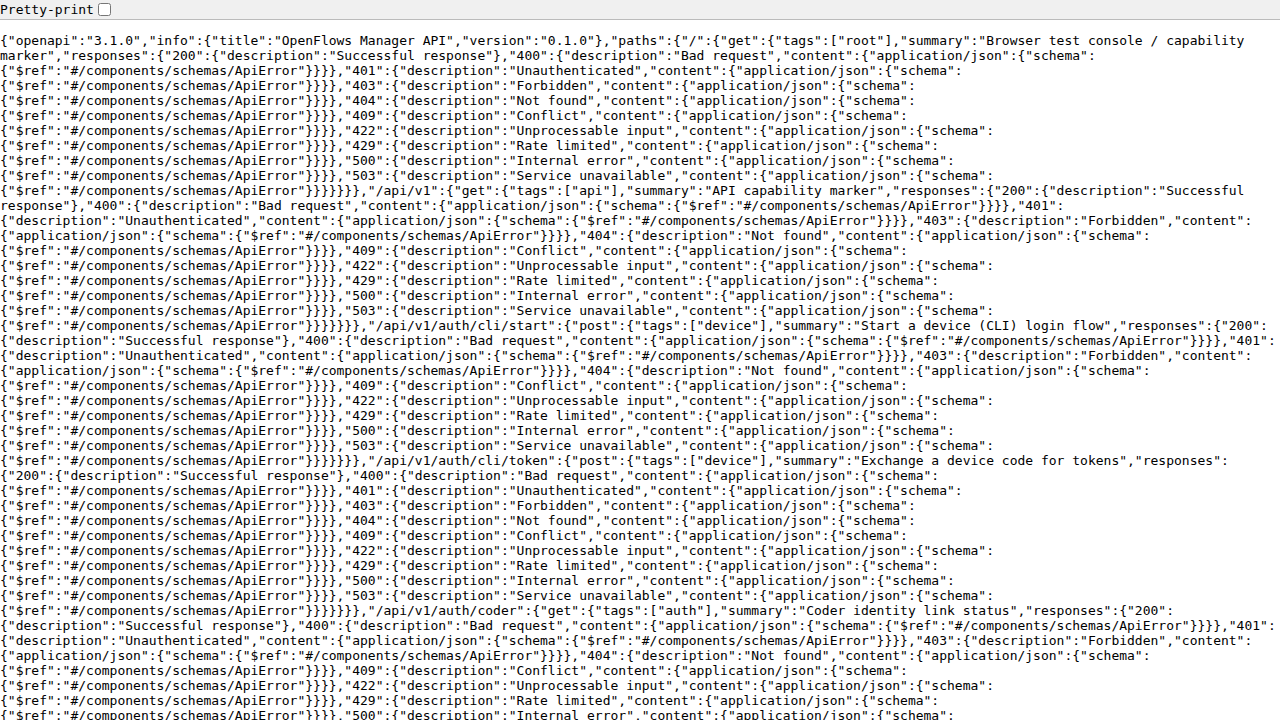
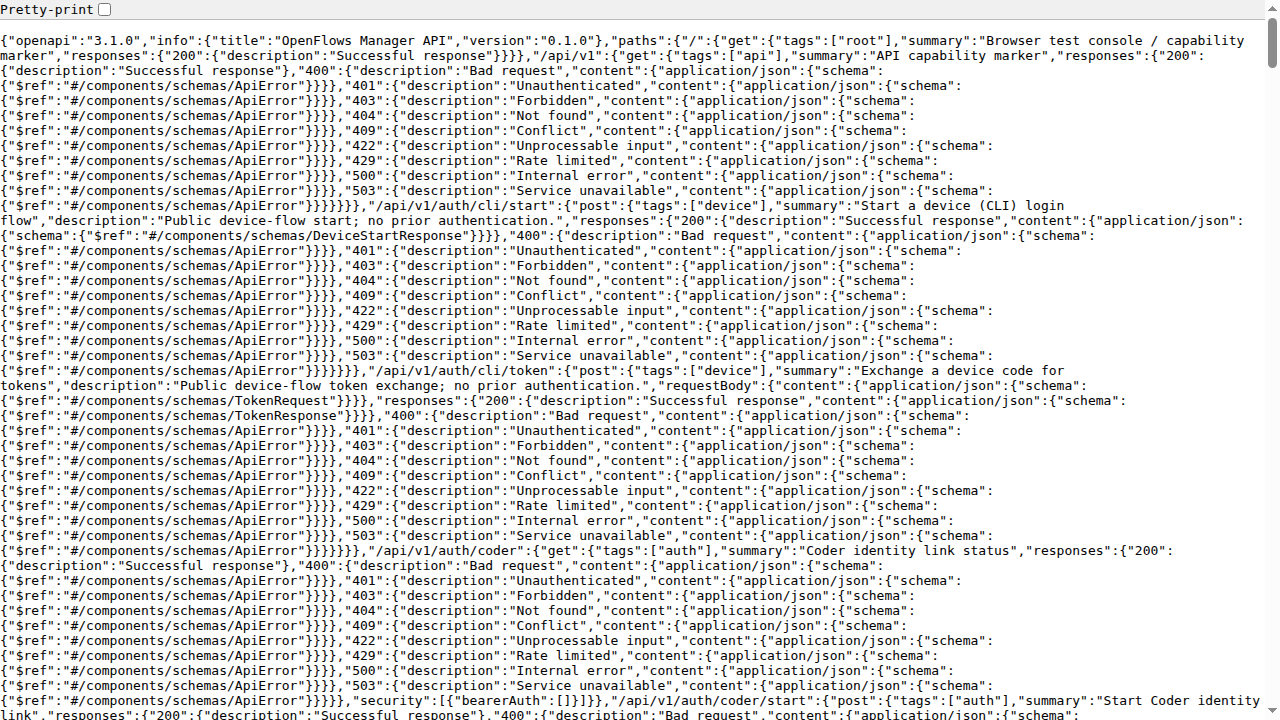
fix(api): align OpenAPI models with serialized responses and request schemas
- Fix Manager operation response schemas:
  - Return OperationResponse for async operations (create/delete org,
    reconcile, disconnect)
  - Return TenantOperationResponse for tenant mutations (create, delete,
    start, stop, clean)
  - Model UserOrganization for organization list items
  - Model OrgMember for membership list items
  - Model TenantStatus with workspace breakdown and latest operation
- Fix CreateTenantRequest to declare optional fleet parameter (default 1)
- Fix CleanTenantRequest to make reset_all optional (default false)
- Fix Agent Nexus HookPayload to require meta (HookMeta) and accept
  arbitrary JSON for data
- Update rendered Swagger UI and raw OpenAPI verification screenshots

diff --git a/crates/openflows-manager/src/openapi.rs b/crates/openflows-manager/src/openapi.rs
@@ -173,17 +173,36 @@ fn response_schema(path: &str, method: &str) -> Option<&'static str> {
     match (method, path) {
         ("GET", "/api/v1/me") => Some("User"),
         ("GET", "/api/v1/organizations") => Some("OrganizationList"),
-        ("POST", "/api/v1/organizations") => Some("Operation"),
+        ("POST", "/api/v1/organizations") => Some("OperationResponse"),
         ("GET", "/api/v1/organizations/{org}") => Some("Organization"),
         ("PATCH", "/api/v1/organizations/{org}") => Some("Organization"),
-        ("DELETE", "/api/v1/organizations/{org}") => Some("Operation"),
+        ("DELETE", "/api/v1/organizations/{org}") => Some("OperationResponse"),
         ("GET", "/api/v1/organizations/{org}/members") => Some("MembershipList"),
         ("PATCH", "/api/v1/organizations/{org}/members/{user}") => Some("Membership"),
         ("GET", "/api/v1/operations/{id}") => Some("Operation"),
         ("GET", "/api/v1/organizations/{org}/tenants") => Some("TenantList"),
+        ("POST", "/api/v1/organizations/{org}/tenants") => Some("TenantOperationResponse"),
         ("GET", "/api/v1/organizations/{org}/tenants/{tenant}") => Some("Tenant"),
-        ("GET", "/api/v1/organizations/{org}/tenants/{tenant}/status") => Some("Tenant"),
+        ("DELETE", "/api/v1/organizations/{org}/tenants/{tenant}") => {
+            Some("TenantOperationResponse")
+        }
+        ("POST", "/api/v1/organizations/{org}/tenants/{tenant}/start") => {
+            Some("TenantOperationResponse")
+        }
+        ("POST", "/api/v1/organizations/{org}/tenants/{tenant}/stop") => {
+            Some("TenantOperationResponse")
+        }
+        ("POST", "/api/v1/organizations/{org}/tenants/{tenant}/clean") => {
+            Some("TenantOperationResponse")
+        }
+        ("GET", "/api/v1/organizations/{org}/tenants/{tenant}/status") => Some("TenantStatus"),
         ("GET", "/api/v1/organizations/{org}/github/connections") => Some("ConnectionsResponse"),
+        ("POST", "/api/v1/organizations/{org}/github/connections/{id}/reconcile") => {
+            Some("OperationResponse")
+        }
+        ("DELETE", "/api/v1/organizations/{org}/github/connections/{id}") => {
+            Some("OperationResponse")
+        }
         ("GET", "/api/v1/runtime/workspaces/{workspace}") => Some("WorkspaceStatus"),
         ("POST", "/api/v1/auth/refresh") => Some("RefreshResponse"),
         ("POST", "/api/v1/auth/cli/start") => Some("DeviceStartResponse"),
@@ -391,10 +410,19 @@ fn build_components() -> utoipa::openapi::schema::ComponentsBuilder {
         .schema("SendChatMessageRequest", send_chat_message_schema())
         .schema("CredentialRequest", credential_request_schema())
         // ---- Response bodies ----
+        .schema("OperationResponse", operation_response_schema())
+        .schema(
+            "TenantOperationResponse",
+            tenant_operation_response_schema(),
+        )
+        .schema("UserOrganization", user_organization_schema())
+        .schema("OrgMember", org_member_schema())
         .schema("Membership", membership_schema())
-        .schema("OrganizationList", list_schema("Organization"))
-        .schema("MembershipList", list_schema("Membership"))
+        .schema("OrganizationList", list_schema("UserOrganization"))
+        .schema("MembershipList", list_schema("OrgMember"))
         .schema("TenantList", list_schema("Tenant"))
+        .schema("TenantWorkspaceCount", tenant_workspace_count_schema())
+        .schema("TenantStatus", tenant_status_schema())
         .schema("ConnectionsResponse", connections_schema())
         .schema("WorkspaceStatus", workspace_status_schema())
         .schema("RefreshResponse", refresh_response_schema())
@@ -578,14 +606,24 @@ fn create_tenant_schema() -> ObjectBuilder {
             ObjectBuilder::new().schema_type(Type::Integer),
         )
         .property("name", ObjectBuilder::new().schema_type(Type::String))
+        .property(
+            "fleet",
+            ObjectBuilder::new()
+                .schema_type(Type::Integer)
+                .description(Some("Fleet size (worker slots). Defaults to 1.")),
+        )
         .required("name")
 }
 
 fn clean_tenant_schema() -> ObjectBuilder {
-    ObjectBuilder::new()
-        .schema_type(Type::Object)
-        .property("reset_all", ObjectBuilder::new().schema_type(Type::Boolean))
-        .required("reset_all")
+    ObjectBuilder::new().schema_type(Type::Object).property(
+        "reset_all",
+        ObjectBuilder::new()
+            .schema_type(Type::Boolean)
+            .description(Some(
+                "Reset all state including configuration. Defaults to false.",
+            )),
+    )
 }
 
 fn connect_schema() -> ObjectBuilder {
@@ -667,6 +705,108 @@ fn credential_request_schema() -> ObjectBuilder {
         .schema_type(Type::Object)
         .property("repository", ObjectBuilder::new().schema_type(Type::String))
         .required("repository")
+}
+
+fn operation_response_schema() -> ObjectBuilder {
+    let string = || ObjectBuilder::new().schema_type(Type::String);
+    ObjectBuilder::new()
+        .schema_type(Type::Object)
+        .description(Some(
+            "Durable operation reference returned for 202 async actions",
+        ))
+        .property("operation_id", string())
+        .property("resource_id", string())
+        .property("status", string())
+        .required("operation_id")
+        .required("resource_id")
+        .required("status")
+}
+
+fn tenant_operation_response_schema() -> ObjectBuilder {
+    let string = || ObjectBuilder::new().schema_type(Type::String);
+    ObjectBuilder::new()
+        .schema_type(Type::Object)
+        .description(Some(
+            "Durable operation reference returned for tenant mutations",
+        ))
+        .property("operation_id", string())
+        .property("tenant_id", string())
+        .property("status", string())
+        .required("operation_id")
+        .required("tenant_id")
+        .required("status")
+}
+
+fn user_organization_schema() -> ObjectBuilder {
+    let string = || ObjectBuilder::new().schema_type(Type::String);
+    ObjectBuilder::new()
+        .schema_type(Type::Object)
+        .description(Some(
+            "An organization as returned in the caller's membership list",
+        ))
+        .property("organization_id", string())
+        .property("slug", string())
+        .property("display_name", string())
+        .property("role", string())
+        .property("status", string())
+        .required("organization_id")
+        .required("slug")
+        .required("display_name")
+        .required("role")
+        .required("status")
+}
+
+fn org_member_schema() -> ObjectBuilder {
+    let string = || ObjectBuilder::new().schema_type(Type::String);
+    ObjectBuilder::new()
+        .schema_type(Type::Object)
+        .description(Some(
+            "An organization member as returned in the membership list",
+        ))
+        .property("user_id", string())
+        .property("display_name", string())
+        .property("role", string())
+        .property("status", string())
+        .required("user_id")
+        .required("display_name")
+        .required("role")
+        .required("status")
+}
+
+fn tenant_workspace_count_schema() -> ObjectBuilder {
+    let string = || ObjectBuilder::new().schema_type(Type::String);
+    ObjectBuilder::new()
+        .schema_type(Type::Object)
+        .description(Some("Workspace breakdown by observed state"))
+        .property("state", string())
+        .property("count", ObjectBuilder::new().schema_type(Type::Integer))
+        .required("state")
+        .required("count")
+}
+
+fn tenant_status_schema() -> ObjectBuilder {
+    let string = || ObjectBuilder::new().schema_type(Type::String);
+    ObjectBuilder::new()
+        .schema_type(Type::Object)
+        .description(Some(
+            "Runtime status of a tenant with workspace breakdown and latest operation",
+        ))
+        .property("tenant_id", string())
+        .property(
+            "workspaces",
+            ArrayBuilder::new().items(Ref::from_schema_name("TenantWorkspaceCount")),
+        )
+        .property(
+            "latest_operation",
+            ObjectBuilder::new()
+                .schema_type(SchemaType::Array(vec![Type::Object, Type::Null]))
+                .property("id", string())
+                .property("state", string())
+                .property("error_code", nullable_string())
+                .description(Some("Latest operation on this tenant, or null if none")),
+        )
+        .required("tenant_id")
+        .required("workspaces")
 }
 
 fn membership_schema() -> ObjectBuilder {
@@ -1052,5 +1192,56 @@ mod tests {
             content.is_some(),
             "GET /organizations/{{org}} success response must declare JSON content"
         );
+
+        // Success response body schema on POST /organizations references OperationResponse.
+        let resp_202 = create_org
+            .responses
+            .responses
+            .get("202")
+            .expect("202 response");
+        let resp_ref = match resp_202 {
+            RefOr::T(r) => r.content.get("application/json").and_then(|c| match c {
+                RefOr::T(c) => match c.schema.as_ref() {
+                    Some(RefOr::Ref(rf)) => Some(rf.ref_location.clone()),
+                    _ => None,
+                },
+                RefOr::Ref(_) => None,
+            }),
+            RefOr::Ref(_) => None,
+        }
+        .expect("202 schema ref");
+        assert!(
+            resp_ref.contains("OperationResponse"),
+            "expected OperationResponse ref, got {resp_ref}"
+        );
+
+        // Tenant status endpoint references TenantStatus.
+        let tenant_status = paths
+            .get("/api/v1/organizations/{org}/tenants/{tenant}/status")
+            .and_then(|pi| pi.get.as_ref())
+            .expect("GET tenant status");
+        let status_ref = match tenant_status.responses.responses.get("200").unwrap() {
+            RefOr::T(r) => r.content.get("application/json").and_then(|c| match c {
+                RefOr::T(c) => match c.schema.as_ref() {
+                    Some(RefOr::Ref(rf)) => Some(rf.ref_location.clone()),
+                    _ => None,
+                },
+                RefOr::Ref(_) => None,
+            }),
+            RefOr::Ref(_) => None,
+        }
+        .expect("200 tenant status ref");
+        assert!(
+            status_ref.contains("TenantStatus"),
+            "expected TenantStatus ref, got {status_ref}"
+        );
+
+        // Components contain updated models.
+        let comps = doc.components.as_ref().unwrap();
+        assert!(comps.schemas.contains_key("UserOrganization"));
+        assert!(comps.schemas.contains_key("OrgMember"));
+        assert!(comps.schemas.contains_key("OperationResponse"));
+        assert!(comps.schemas.contains_key("TenantOperationResponse"));
+        assert!(comps.schemas.contains_key("TenantStatus"));
     }
 }

diff --git a/crates/agent-nexus/src/openapi.rs b/crates/agent-nexus/src/openapi.rs
@@ -183,6 +183,30 @@ fn build_openapi(routes: &[DocRoute], title: &str) -> OpenApi {
         .build()
 }
 
+fn hook_meta_schema() -> ObjectBuilder {
+    let string = || ObjectBuilder::new().schema_type(Type::String);
+    ObjectBuilder::new()
+        .schema_type(Type::Object)
+        .description(Some(
+            "Identifiers attached to every Coder lifecycle dispatch",
+        ))
+        .property("dispatch_id", string())
+        .property(
+            "schema_version",
+            ObjectBuilder::new().schema_type(Type::Integer),
+        )
+        .property("chat_id", string())
+        .property("owner_id", string())
+        .property("workspace_id", nullable_string())
+        .property("turn_id", nullable_string())
+        .property("parent_chat_id", nullable_string())
+        .property("root_chat_id", nullable_string())
+        .property("client", nullable_string())
+        .required("dispatch_id")
+        .required("chat_id")
+        .required("owner_id")
+}
+
 /// Reusable component schemas for Agent Nexus.
 fn components() -> utoipa::openapi::schema::Components {
     let string = || ObjectBuilder::new().schema_type(Type::String);
@@ -201,6 +225,7 @@ fn components() -> utoipa::openapi::schema::Components {
             SecurityScheme::ApiKey(ApiKey::Header(ApiKeyValue::new("Authorization"))),
         )
         // ---- Lifecycle hook payload ----
+        .schema("HookMeta", hook_meta_schema())
         .schema(
             "HookPayload",
             ObjectBuilder::new()
@@ -209,9 +234,23 @@ fn components() -> utoipa::openapi::schema::Components {
                     "A Coder lifecycle-hook dispatch, signed with the shared secret",
                 ))
                 .property("type", string())
-                .property("meta", ObjectBuilder::new().schema_type(Type::Object))
-                .property("data", ObjectBuilder::new().schema_type(Type::Object))
-                .required("type"),
+                .property("meta", Ref::from_schema_name("HookMeta"))
+                .property(
+                    "data",
+                    ObjectBuilder::new()
+                        .description(Some("Event-specific payload (any JSON value)"))
+                        .schema_type(SchemaType::Array(vec![
+                            Type::Object,
+                            Type::Array,
+                            Type::String,
+                            Type::Integer,
+                            Type::Number,
+                            Type::Boolean,
+                            Type::Null,
+                        ])),
+                )
+                .required("type")
+                .required("meta"),
         )
         // ---- A2A JSON-RPC envelope ----
         .schema(
@@ -522,5 +561,16 @@ mod tests {
             has_scheme,
             "components must declare the coderHookJwt security scheme"
         );
+
+        let comps = doc.components.as_ref().unwrap();
+        assert!(comps.schemas.contains_key("HookMeta"));
+        let payload = comps.schemas.get("HookPayload").unwrap();
+        match payload {
+            RefOr::T(Schema::Object(o)) => {
+                assert!(o.required.contains(&"meta".to_string()));
+                assert!(o.required.contains(&"type".to_string()));
+            }
+            _ => panic!("expected Schema::Object for HookPayload"),
+        }
     }
 }
